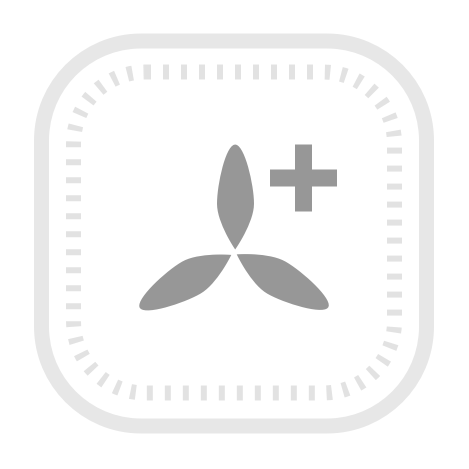
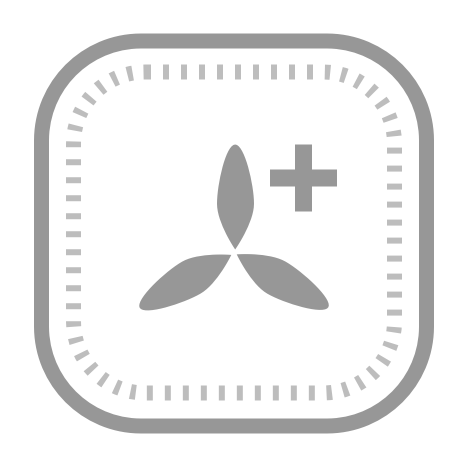
light mode compatibility improved

Changed region(s): [[0.0597, 0.0597, 0.9254, 0.9254], [0.7761, 0.7761, 0.806, 0.806]]

diff --git a/lib/pages/iconchoosersheet_page.dart b/lib/pages/iconchoosersheet_page.dart
@@ -28,9 +28,17 @@ class _IconChooserSheetPageState extends ConsumerState<IconChooserSheetPage> {
   @override
   Widget build(BuildContext context) {
     final String appName = widget.appFile.name.replaceAll('.app', '');
+    var brightness = MediaQuery.of(context).platformBrightness;
 
     return MacosSheet(
-      insetAnimationDuration: Duration(milliseconds: 200),
+      insetAnimationDuration: Duration(milliseconds: 500),
+      insetPadding: EdgeInsets.only(
+        top: 50,
+        left: 60,
+        right: 60,
+        bottom: 50,
+      ),
+      insetAnimationCurve: Curves.easeInOut,
       child: Padding(
         padding: const EdgeInsets.all(20),
         child: Center(
@@ -54,19 +62,10 @@ class _IconChooserSheetPageState extends ConsumerState<IconChooserSheetPage> {
                   Stack(
                     alignment: Alignment.center,
                     children: [
-                      Container(
-                        decoration: BoxDecoration(boxShadow: [
-                          BoxShadow(
-                            color: CupertinoColors.systemGrey.withOpacity(0.5),
-                            blurRadius: 20,
-                            offset: Offset(0, 10),
-                          ),
-                        ]),
-                        child: Image(
-                          image: AssetImage('assets/alter_icon_frame.png'),
-                          width: 155,
-                          height: 155,
-                        ),
+                      Image(
+                        image: AssetImage('assets/alter_icon_frame.png'),
+                        width: 155,
+                        height: 155,
                       ),
                       GestureDetector(
                         onTap: () async {
@@ -81,8 +80,11 @@ class _IconChooserSheetPageState extends ConsumerState<IconChooserSheetPage> {
                         child: Image(
                           image: currentPickedIcon != null
                               ? FileImage(File(currentPickedIcon!.path))
-                              : AssetImage('assets/alter_empty.png')
-                                  as ImageProvider,
+                              : AssetImage(
+                                  brightness == Brightness.dark
+                                      ? 'assets/alter_empty_dark.png'
+                                      : 'assets/alter_empty_light.png',
+                                ) as ImageProvider,
                           width: 145,
                           height: 145,
                         ),
